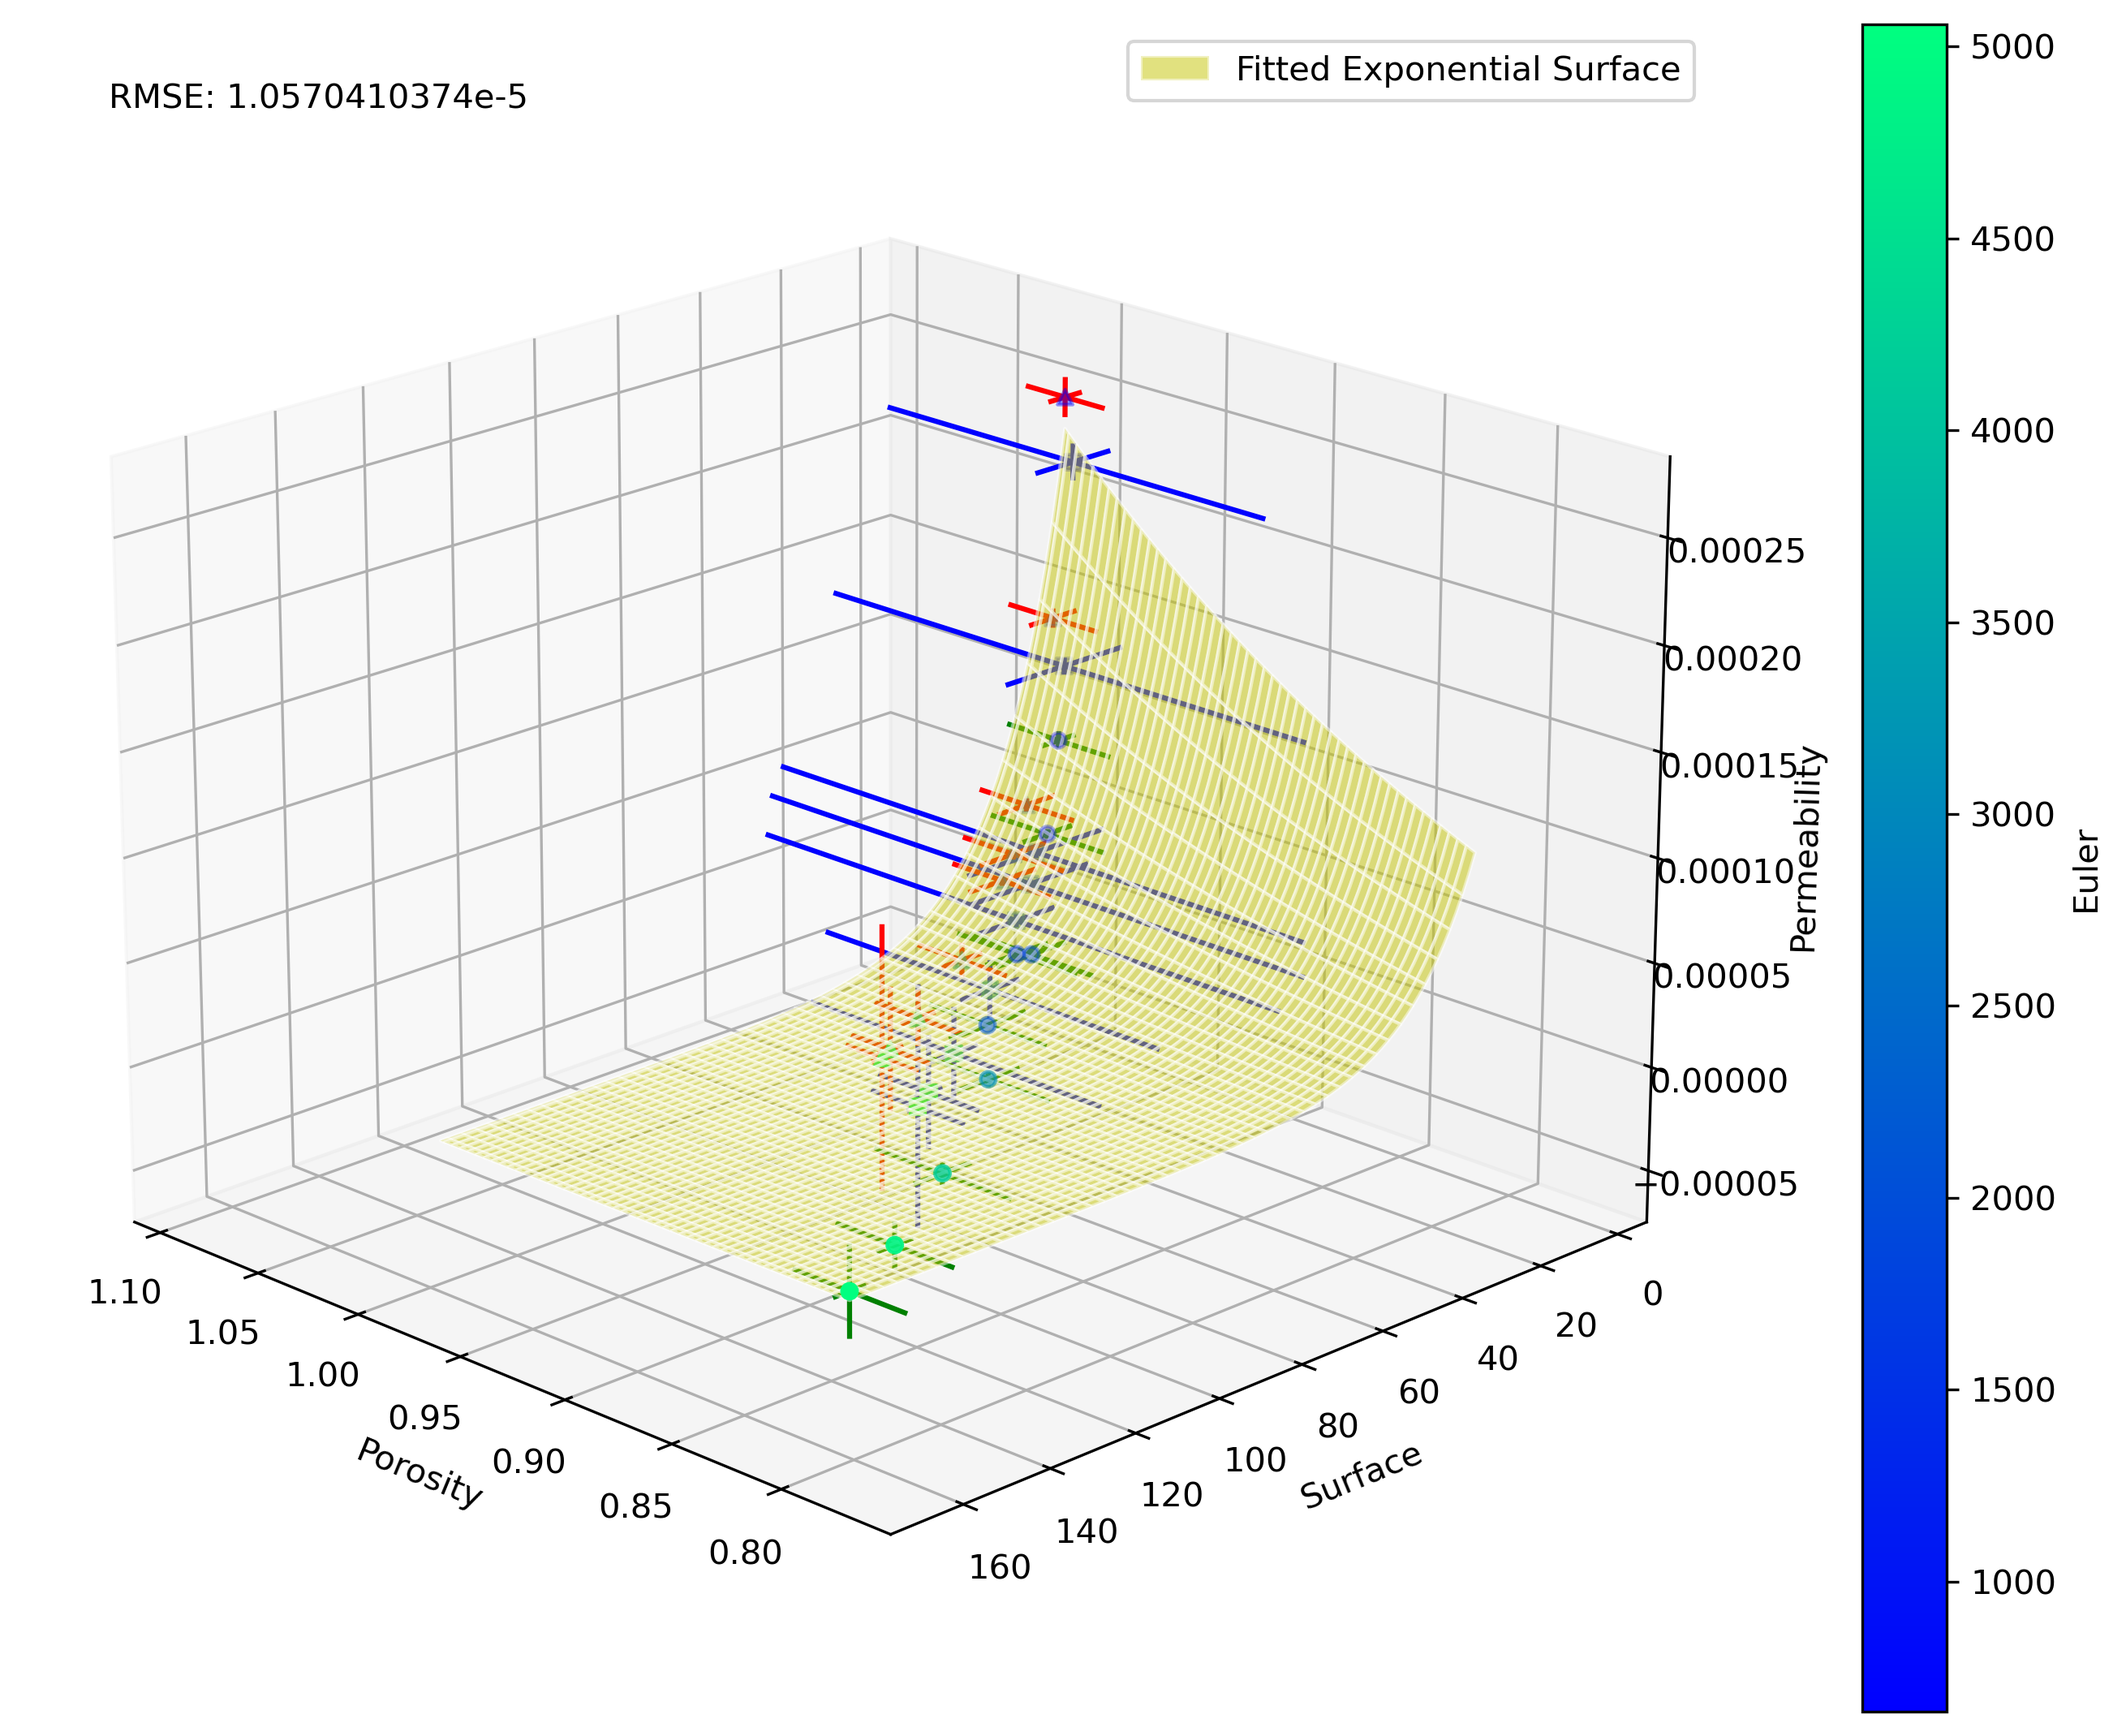
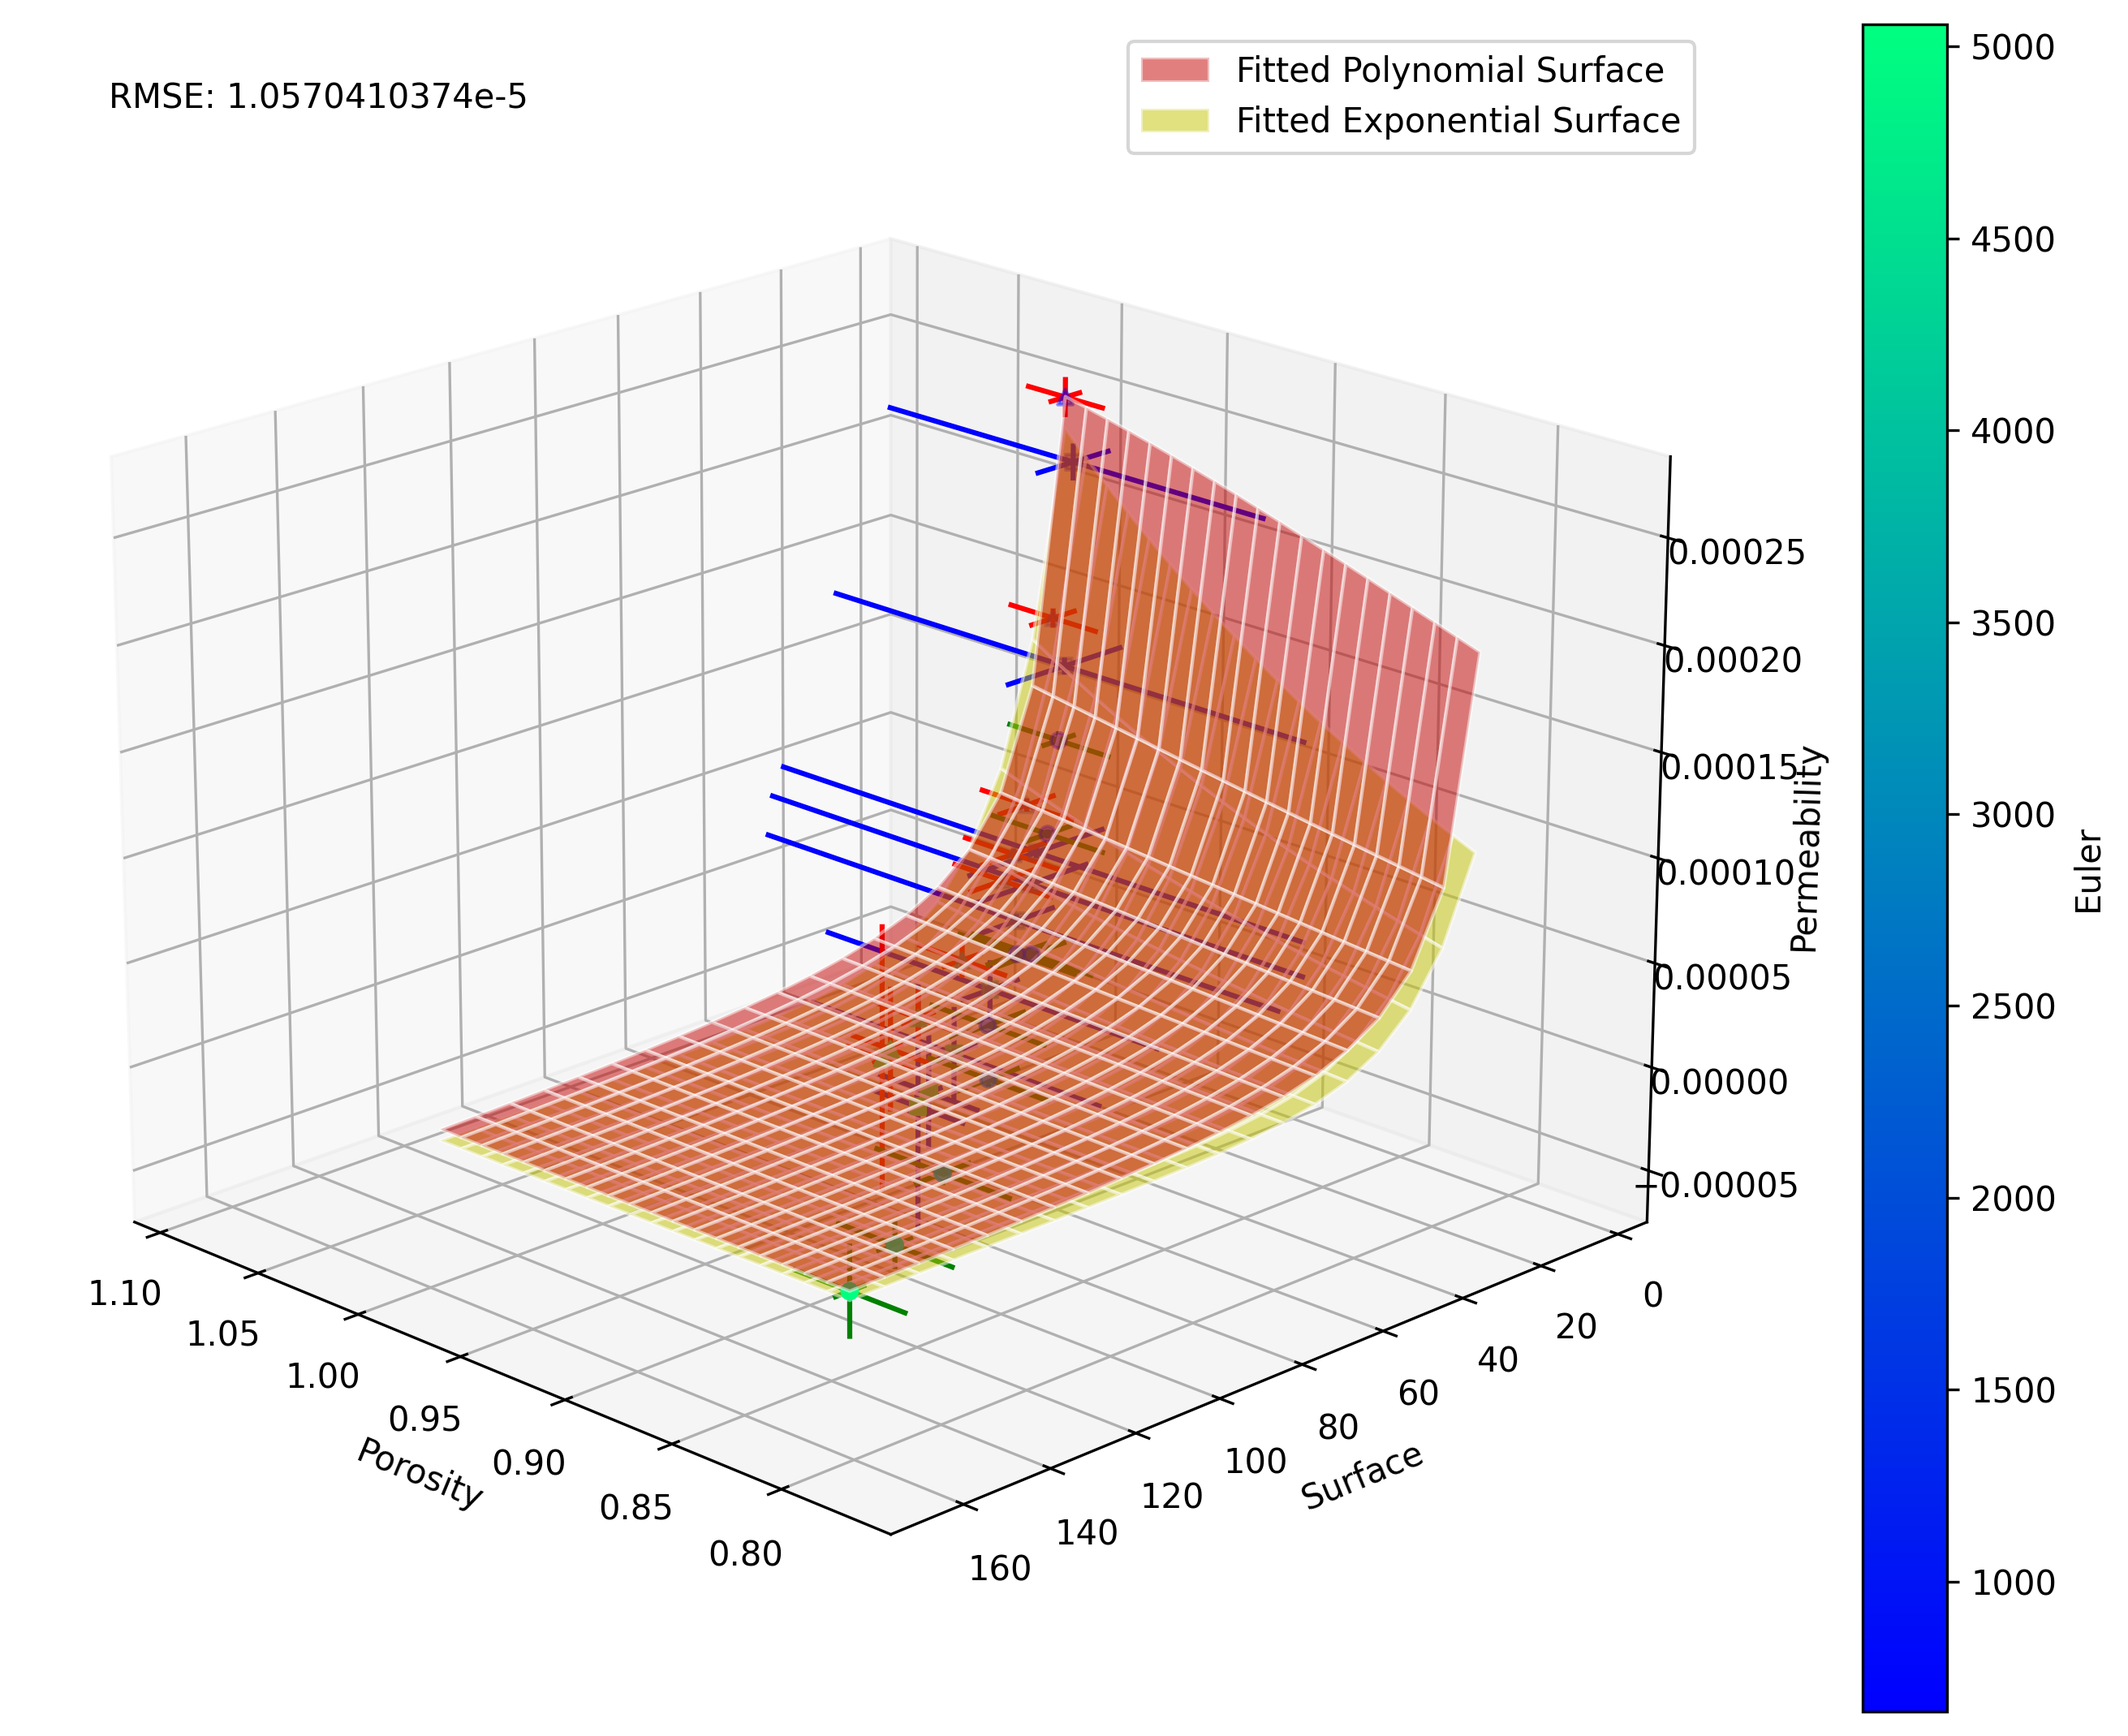
Adaugat surface polynomial

diff --git a/3d_plots.py b/3d_plots.py
@@ -32,7 +32,7 @@ VARIANCE=True
 
 ################ READING ALL THE FILES IN THE FOLDER ################
 script_dir = os.path.dirname(__file__)
-sub_path = 'Threshold_homogenous_diamater_small_RCP'
+sub_path = 'Threshold_homogenous_diamater_wide_RCP'
 path = os.path.join(script_dir, sub_path)
 print(path)
 variance_path=os.path.join(script_dir, 'Summaries', sub_path)
@@ -379,9 +379,9 @@ def exponential_surface(XY, a, b, c):
     x, y = XY
     return a * np.exp(b*x) * np.exp(c*y)
 
-def cubic_surface(XY, a, b, c, d, e):
+def cubic_surface(XY, a, b, c, d, e, f):
     x, y = XY
-    return a + b*x + c*y + d*x**2 + e*y**2
+    return a + b*x/y + c*(x/y)**2 + d*(x/y)**3 + e*(x/y)**4 + f*(x/y)**5
 
 
 
@@ -391,11 +391,11 @@ X = concated_df['Porosity']
 Y = concated_df['Surface']
 Z = concated_df['Permeability']
 popt_exp, _ = opt.curve_fit(exponential_surface, XY, Z, p0=(1, 0.01, 0.01))  # Initial guesses for a, b, c
-popt_poly, _ = opt.curve_fit(cubic_surface, XY, Z, p0=(1, 1, 1, 1, 1))  # Initial guesses for a, b, c, d, e, f
+popt_poly, _ = opt.curve_fit(cubic_surface, XY, Z, p0=(1, 1, 1, 1, 1, 1))  # Initial guesses for a, b, c, d, e, f
 
 # Extract optimal parameters
-a, b, c = popt_exp
-# a, b, c, d, e = popt_poly
+a_exp, b_exp, c_exp = popt_exp
+a_poly, b_poly, c_poly, d_poly, e_poly, f_poly = popt_poly
 print(popt_exp)
 
 # Calculate RMSE between the surface generated and the points plotted
@@ -403,17 +403,17 @@ def calculate_rmse(actual, predicted):
     return np.sqrt(mean_squared_error(actual, predicted))
 
 # Flatten the meshgrid and calculate predicted values
-predicted_values = exponential_surface((X, Y), a, b, c)
+predicted_values = exponential_surface((X, Y), a_exp, b_exp, c_exp)
 rmse = calculate_rmse(Z, predicted_values)
 
 print(f"RMSE between the surface generated and the points plotted: {rmse}")
 
 # Create a meshgrid for the fitted surface
-x_grid = np.linspace(X.min(), X.max(), 100)
-y_grid = np.linspace(Y.min(), Y.max(), 100)
+x_grid = np.linspace(X.min(), X.max(), 20)
+y_grid = np.linspace(Y.min(), Y.max(), 20)
 x_mesh, y_mesh = np.meshgrid(x_grid, y_grid)
-z_mesh_exp = exponential_surface((x_mesh, y_mesh), a, b, c)
-# z_mesh_poly = cubic_surface((x_mesh, y_mesh), a, b, c, e, f)
+z_mesh_exp = exponential_surface((x_mesh, y_mesh), a_exp, b_exp, c_exp)
+z_mesh_poly = cubic_surface((x_mesh, y_mesh), a_poly, b_poly, c_poly, d_poly, e_poly, f_poly)
 
 # Plot the original points and the fitted exponential surface
 fig = plt.figure()
@@ -426,6 +426,7 @@ sc1 = ax.scatter(xdata_rectangle[0], xdata_rectangle[1], ydata_rectangle, c=xdat
 sc2 = ax.scatter(xdata_triangle[0], xdata_triangle[1], ydata_triangle, c=xdata_triangle[2], marker='^', cmap='winter', vmin=min_color, vmax=max_color)
 sc3 = ax.scatter(xdata_ellipse[0], xdata_ellipse[1], ydata_ellipse, c=xdata_ellipse[2], marker='o', cmap='winter', vmin=min_color, vmax=max_color)
 cbar = plt.colorbar(sc1, ax=ax, label='Euler')
+ax.plot_surface(x_mesh, y_mesh, z_mesh_poly, color='red', alpha=0.5, edgecolor='w', label='Fitted Polynomial Surface')
 ax.plot_surface(x_mesh, y_mesh, z_mesh_exp, color='yellow', alpha=0.5, edgecolor='w', label='Fitted Exponential Surface')
 if VARIANCE:
         plot_box_and_whisker(ax, concatenated_df_rectangle['Porosity'], concatenated_df_rectangle['Surface'], concatenated_df_rectangle['Permeability'], sigma_porosity_rectangle, sigma_surface_rectangle, sigma_permeability_rectangle, 'blue')
